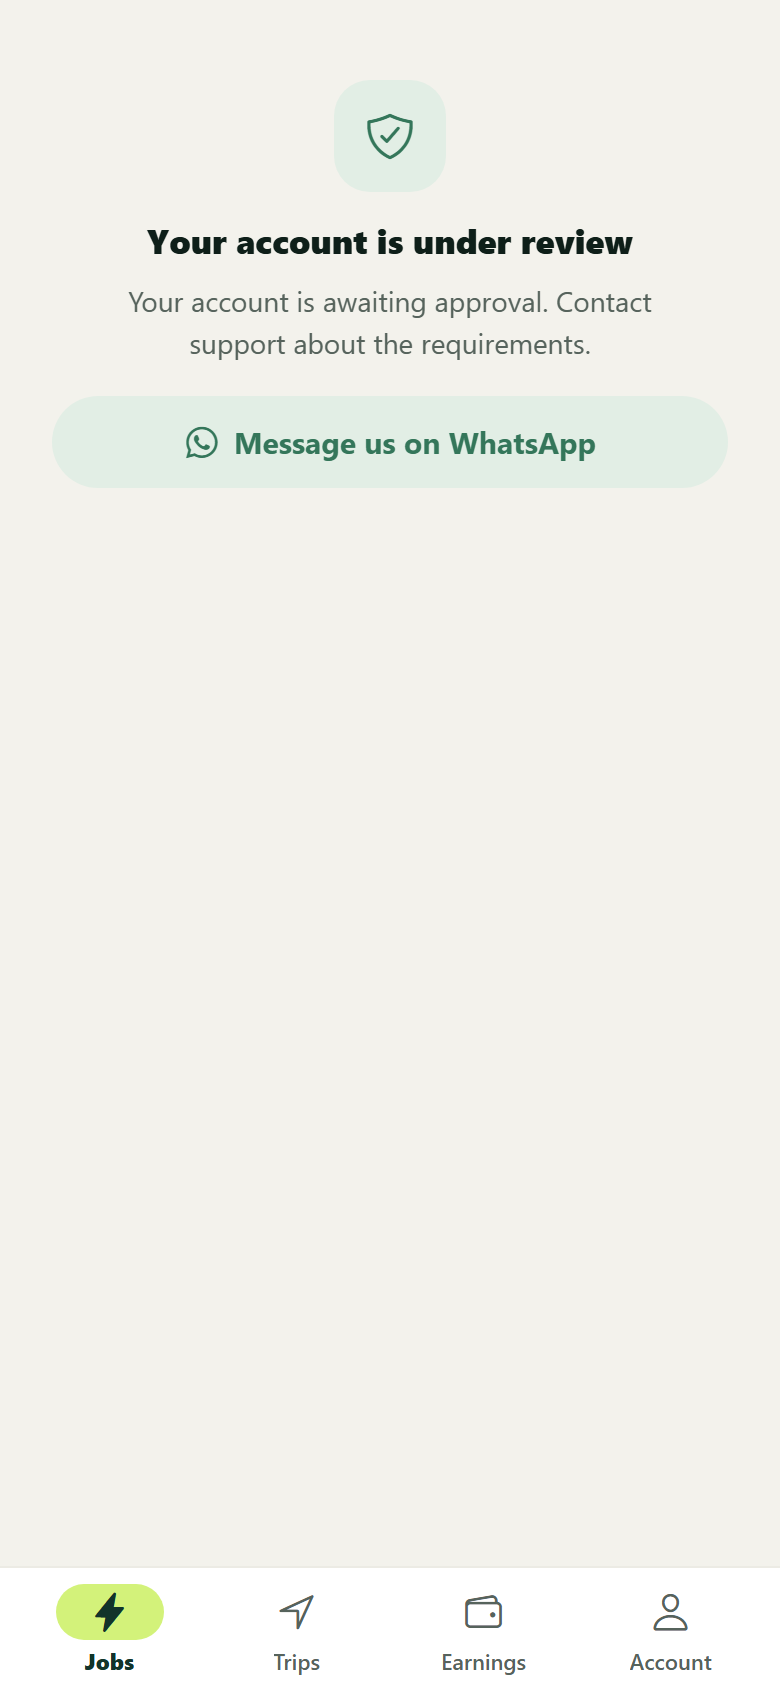
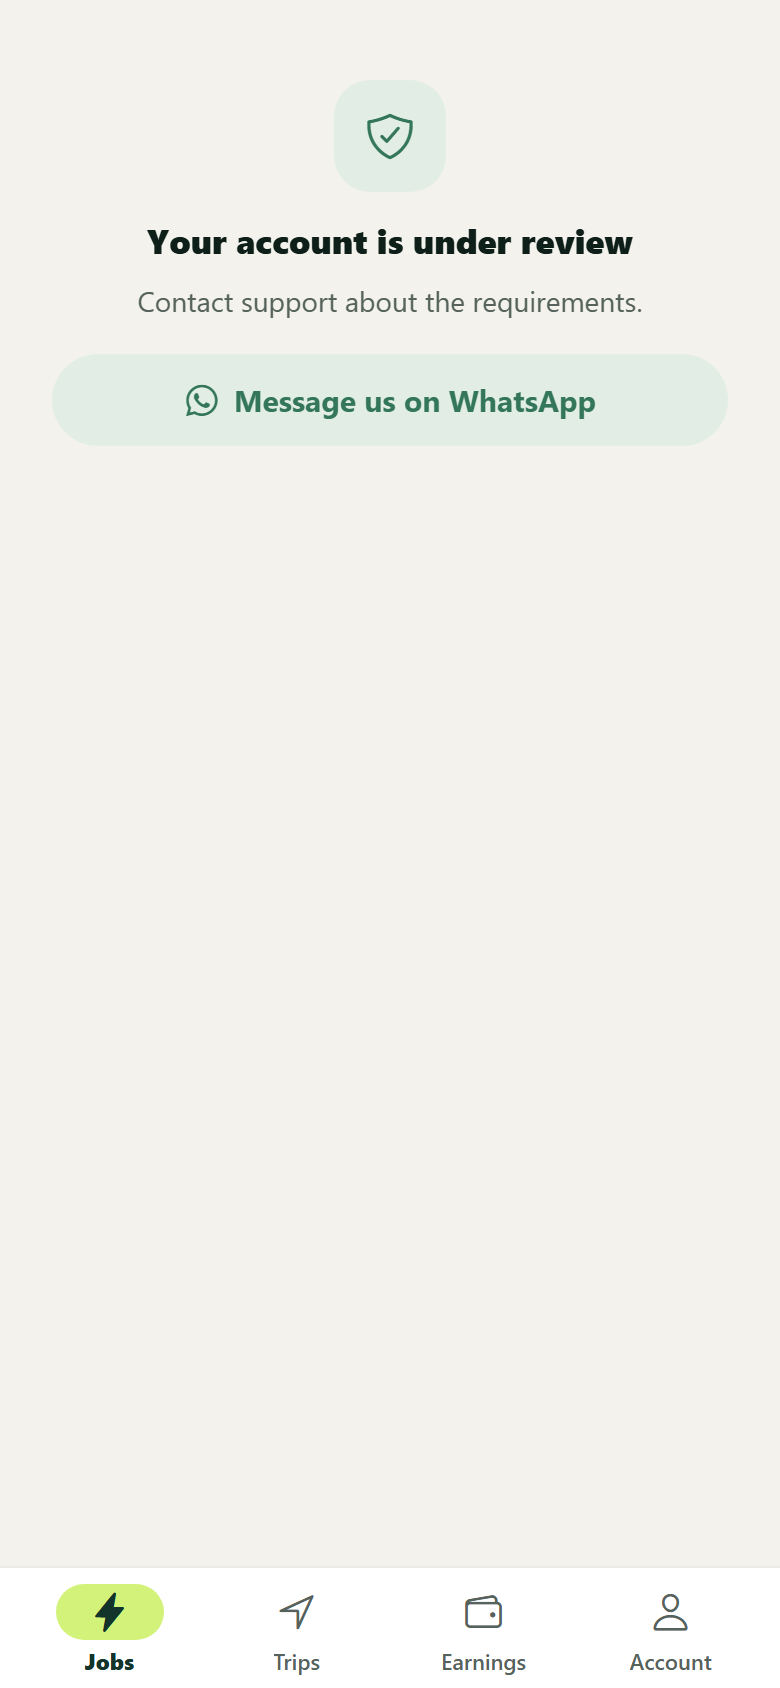
Pending driver screen says "under review" once

Changed region(s): [[0.1538, 0.154, 0.8308, 0.2773]]

diff --git a/src/copy.ts b/src/copy.ts
@@ -393,7 +393,7 @@ const ar = {
   noJobs: 'لا توجد طلبات حالياً',
   noJobsDesc: 'يتم تحديث القائمة تلقائياً فور توفر طلبات جديدة.',
   pendingTitle: 'حسابك قيد المراجعة',
-  pendingDesc: 'حسابك بانتظار الموافقة. تواصل مع الدعم لمعرفة المطلوب.',
+  pendingDesc: 'تواصل مع الدعم لمعرفة المطلوب.',
   pendingCallBack: 'وصل طلبك لفريق ويند. سنتصل بك على {phone} لترتيب التحقق، ثم تظهر لك الطلبات هنا.',
   activeTrips: 'رحلات جارية',
   runPickup: 'استلام من {city} · {n}',
@@ -1035,7 +1035,7 @@ const en: Copy = {
   noJobs: 'No jobs right now',
   noJobsDesc: 'This list updates automatically when new jobs become available.',
   pendingTitle: 'Your account is under review',
-  pendingDesc: 'Your account is awaiting approval. Contact support about the requirements.',
+  pendingDesc: 'Contact support about the requirements.',
   pendingCallBack: 'Wind has your request. We will call you on {phone} to arrange the check; jobs then appear here.',
   activeTrips: 'Active trips',
   runPickup: 'Pick up in {city} · {n}',
